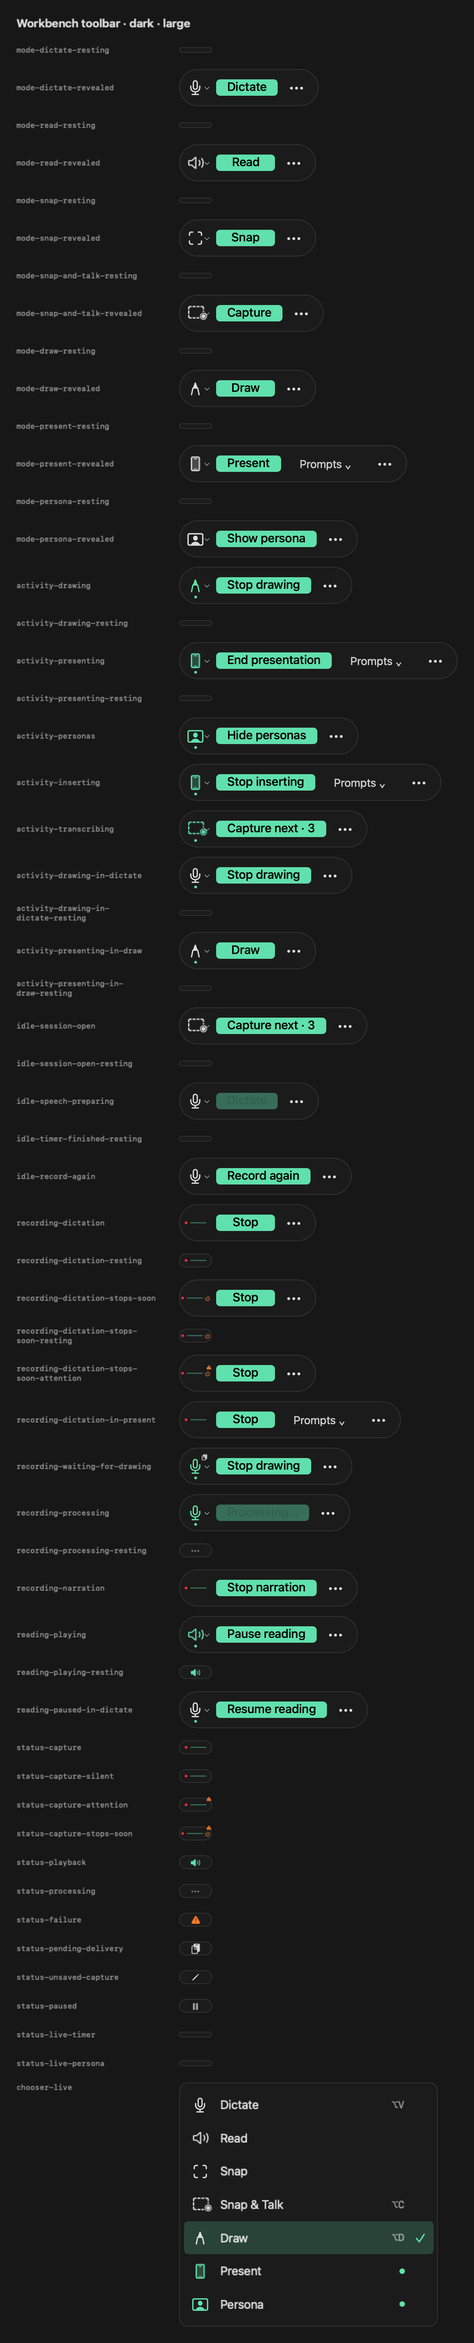
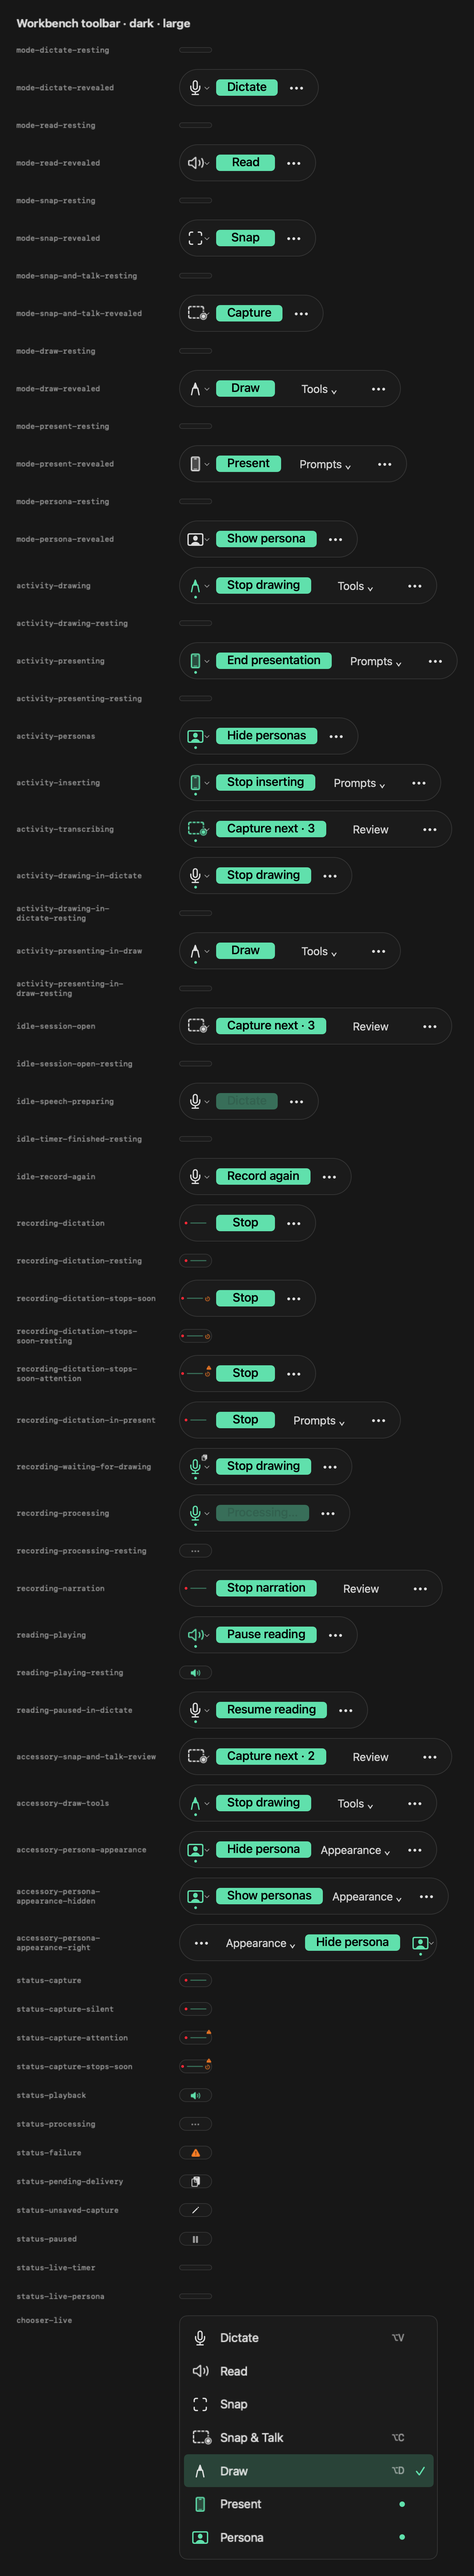
Refresh pill evidence with current contextual accessories

diff --git a/docs/verification/2026-09-29-pill-polish/README.md b/docs/verification/2026-09-29-pill-polish/README.md
@@ -53,11 +53,12 @@ Initial implementation evidence (before the resting-identity revision): source `
 
 ### Quiet resting handle: current evidence
 
-The GIFs and galleries above now show the quieter revision, source `68ec3615c24d1b603df31a30bc20582f4947face`.
+The GIFs and galleries above show the quieter revision integrated with main's contextual accessories and timer fixes (#219), source `3afca46f4d79b43c659b8aea34d4d19fa24c3476`.
 
-- 151 isolated ToolbarCore/ToolbarKit tests passed, including quiet live work's complete accessible status and reveal action.
-- 300 production-view fixtures rendered. Idle and every ordinary live-work state retain a 48 × 28 target with an 8-point visible handle; recording, transport and results retain their 20-point capsule.
-- Both native motion sequences captured 66 frames and nine distinct window widths. Every sampled launcher stayed 24 points from its anchored edge, including the thinner handle's opening and closing.
-- The capture warning and voice trace remain visible. The owning toolbar contract, product specification and guide now describe the same policy.
+- 156 isolated ToolbarCore/ToolbarKit tests passed, including quiet live work's complete accessible status and reveal action, plus accessory fit, labels and keyboard access.
+- 320 production-view fixtures rendered. Idle and every ordinary live-work state retain a 48 × 28 target with an 8-point visible handle; recording, transport and results retain their 20-point capsule.
+- Both native motion sequences captured 66 frames and ten distinct window widths. Every sampled launcher stayed 24 points from its anchored edge. Draw's sequence includes Tools, and Present's includes Prompts.
+- Complete LocalVoice source build and 177 control checks passed, plus 76 supporting checks. Surface registry passed with 419 entries.
+- The capture warning and voice trace remain visible. The owning toolbar contract, product specification and guide describe the same policy.
 
 Final CI and surface-gallery results are recorded in the PR. This is source and synthetic native evidence. It does not claim installed Preview acceptance, physical hover, VoiceOver traversal or multi-display hardware acceptance. The installed QA owner retains the shared Preview and desktop input.
